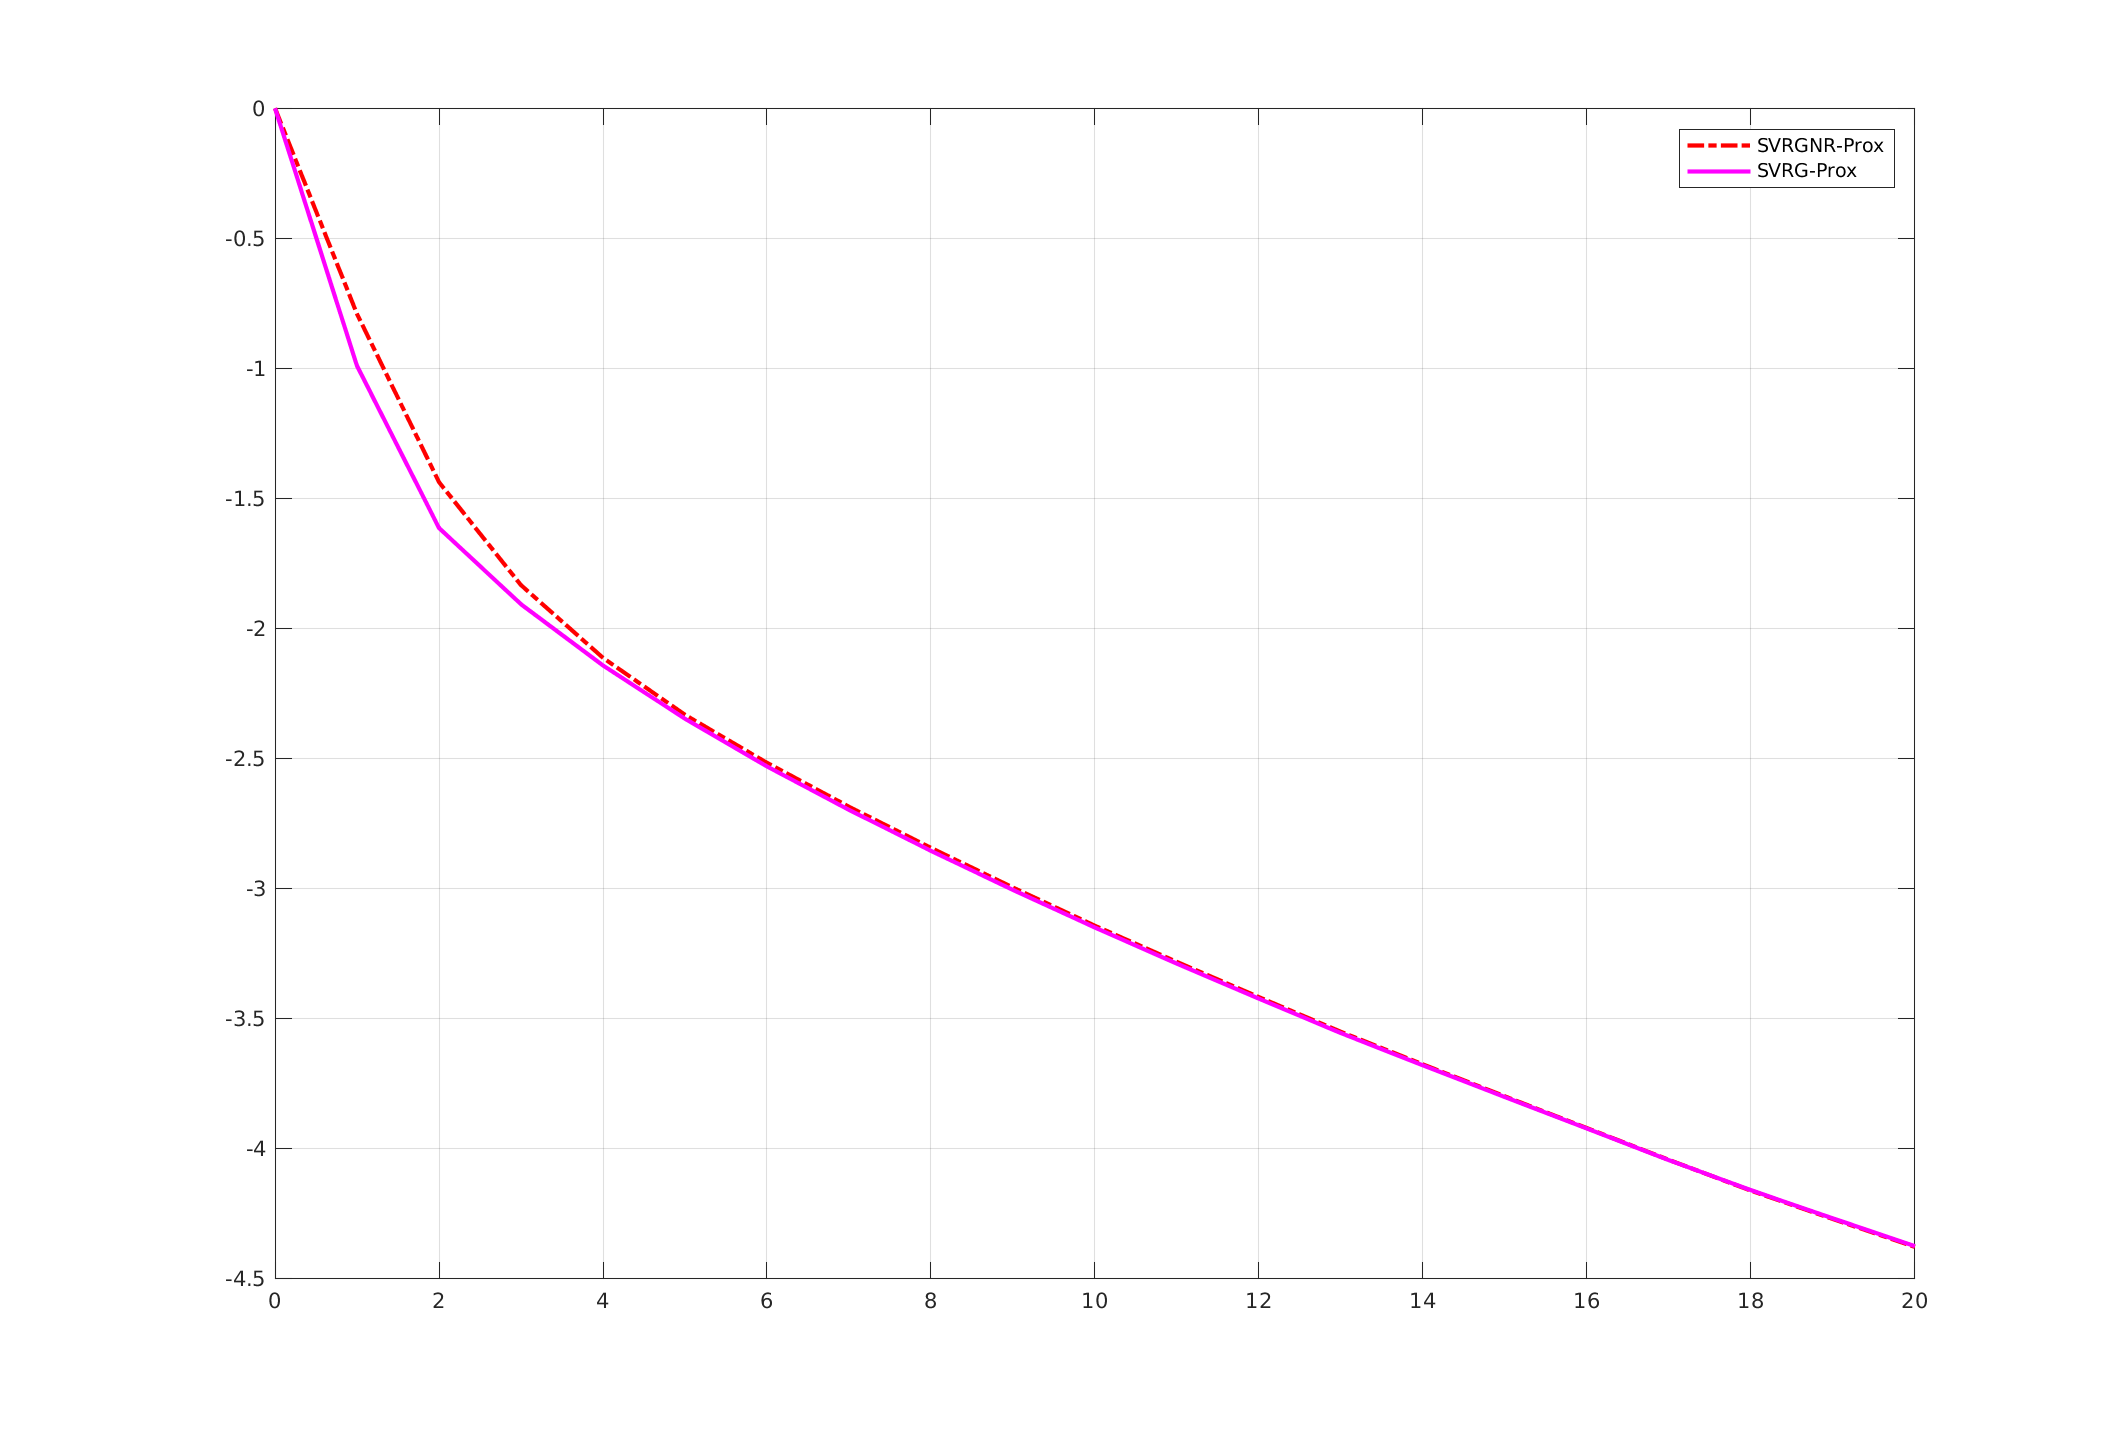
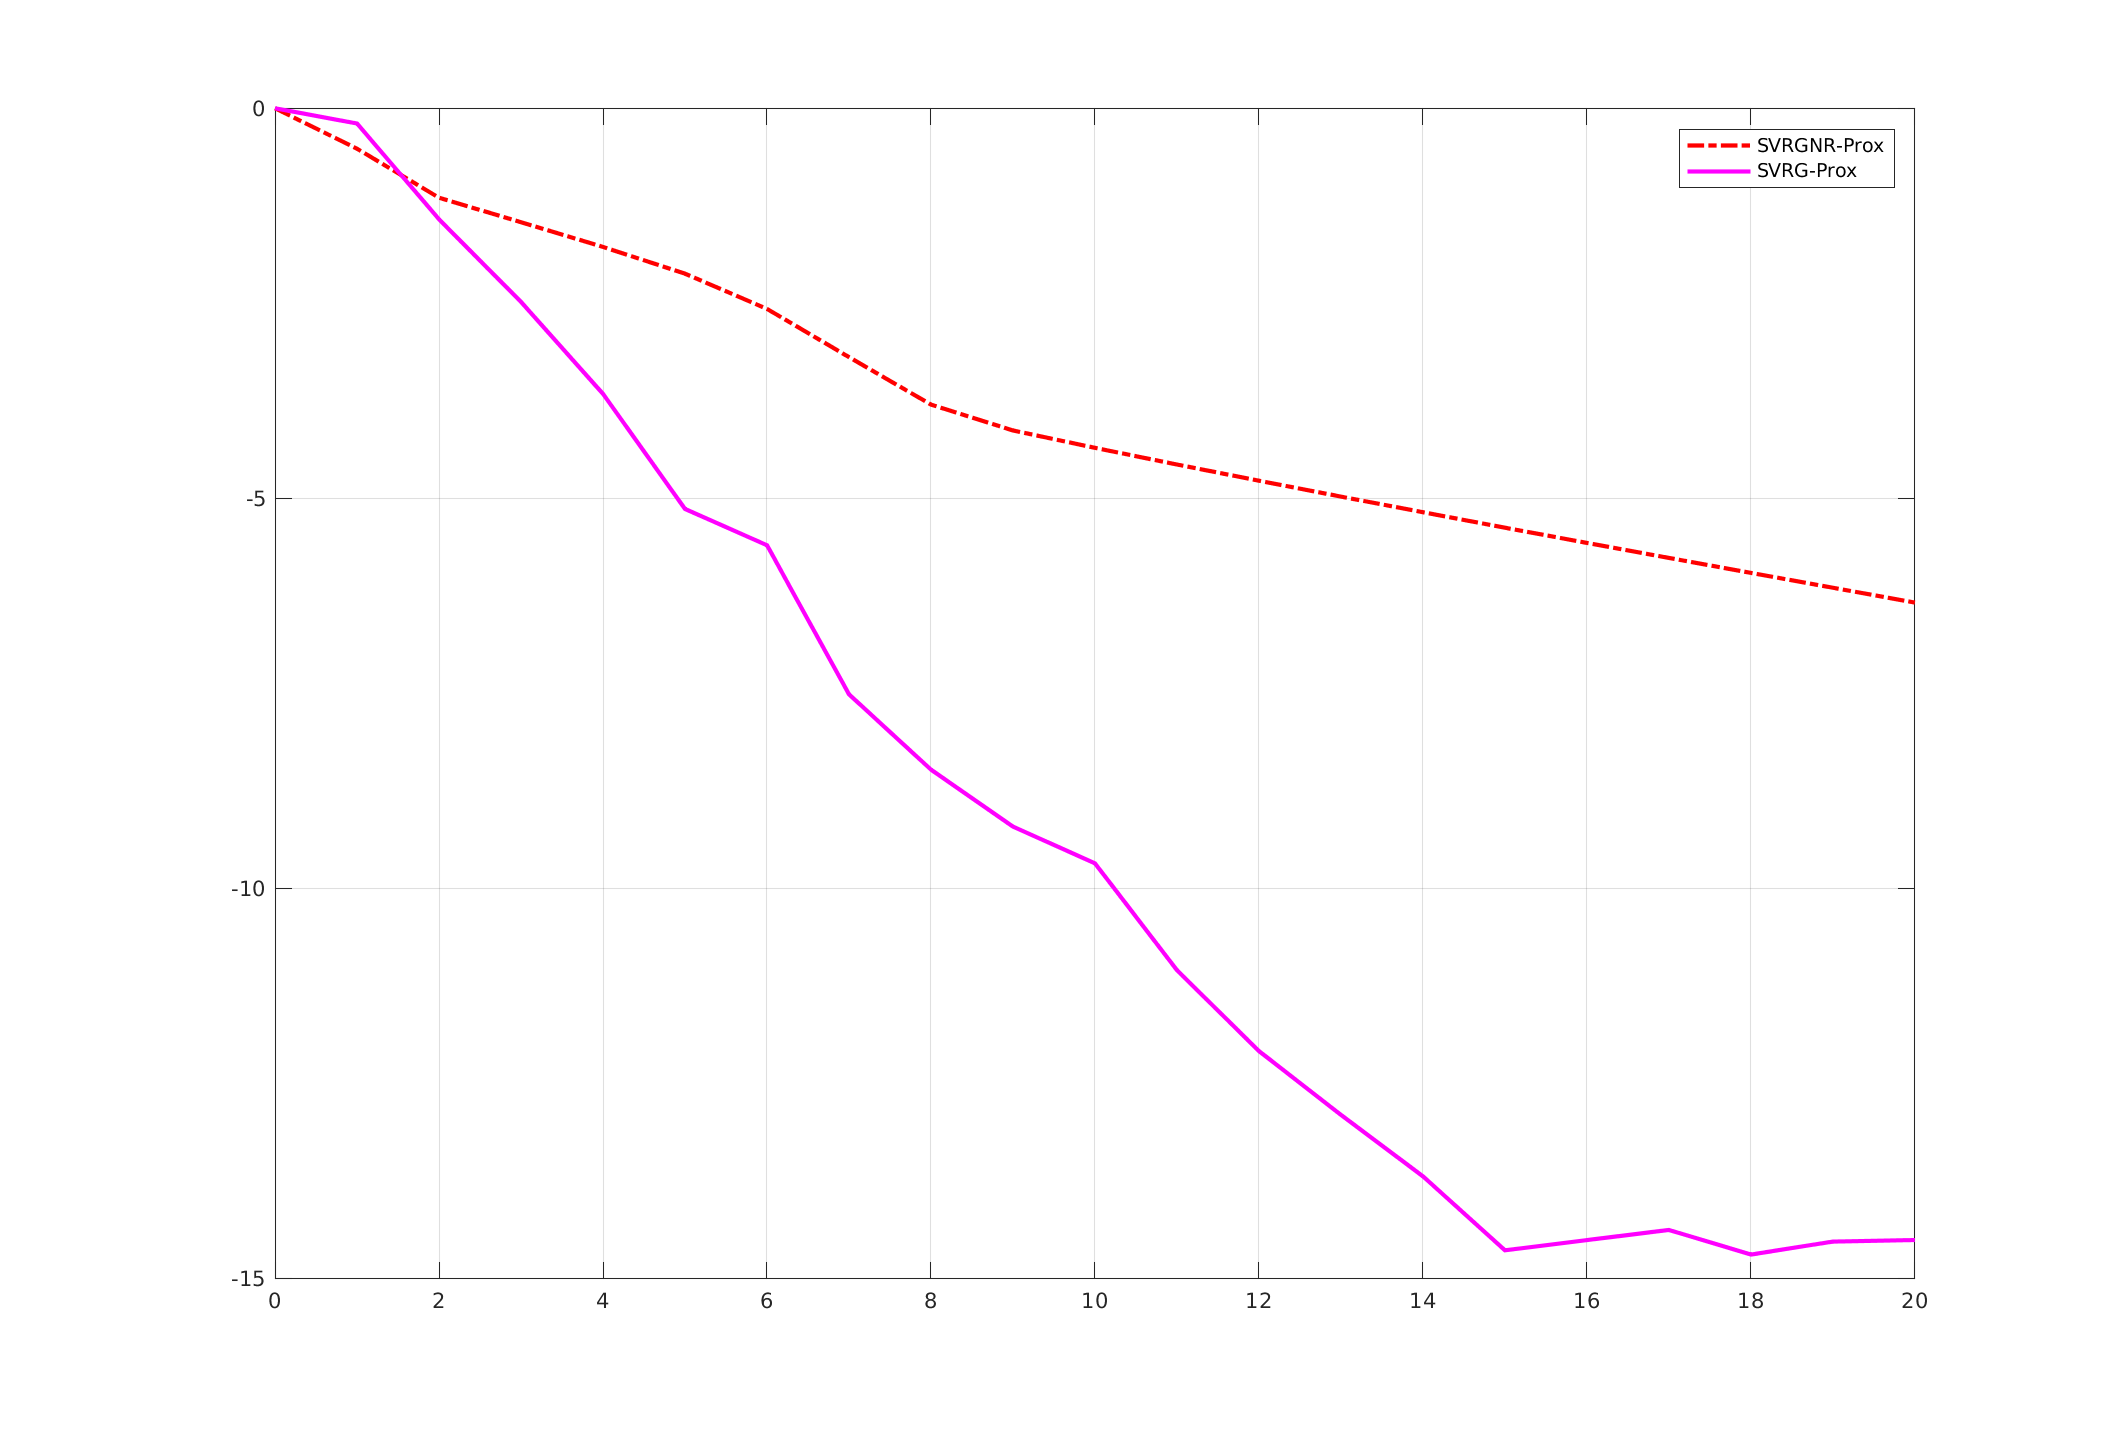
I think one shuffle helps

diff --git a/SVRGNRP.m b/SVRGNRP.m
@@ -3,8 +3,12 @@ function wOpt = SVRGP(objFunc, X, y, Xtest, ytest, passes, factor)
 tstart = tic;
 fprintf('Fitting data with SVRGNR-Prox ...\n');
 
+
 % initialization
 [n ,d] = size(X);
+ordering = randperm(n);
+X = X(ordering, :);
+y = y(ordering);
 iterNum = n;
 subOptimality = zeros(passes, 1);
 validPoints = 0;

diff --git a/main.m b/main.m
@@ -8,7 +8,7 @@
 
 dataset = 'rcv1';
 passes = 20;
-factor = 1/4;
+factor = 1;
 lambda2 = 1e-5;
 lambda1 = 1e-4;
 
